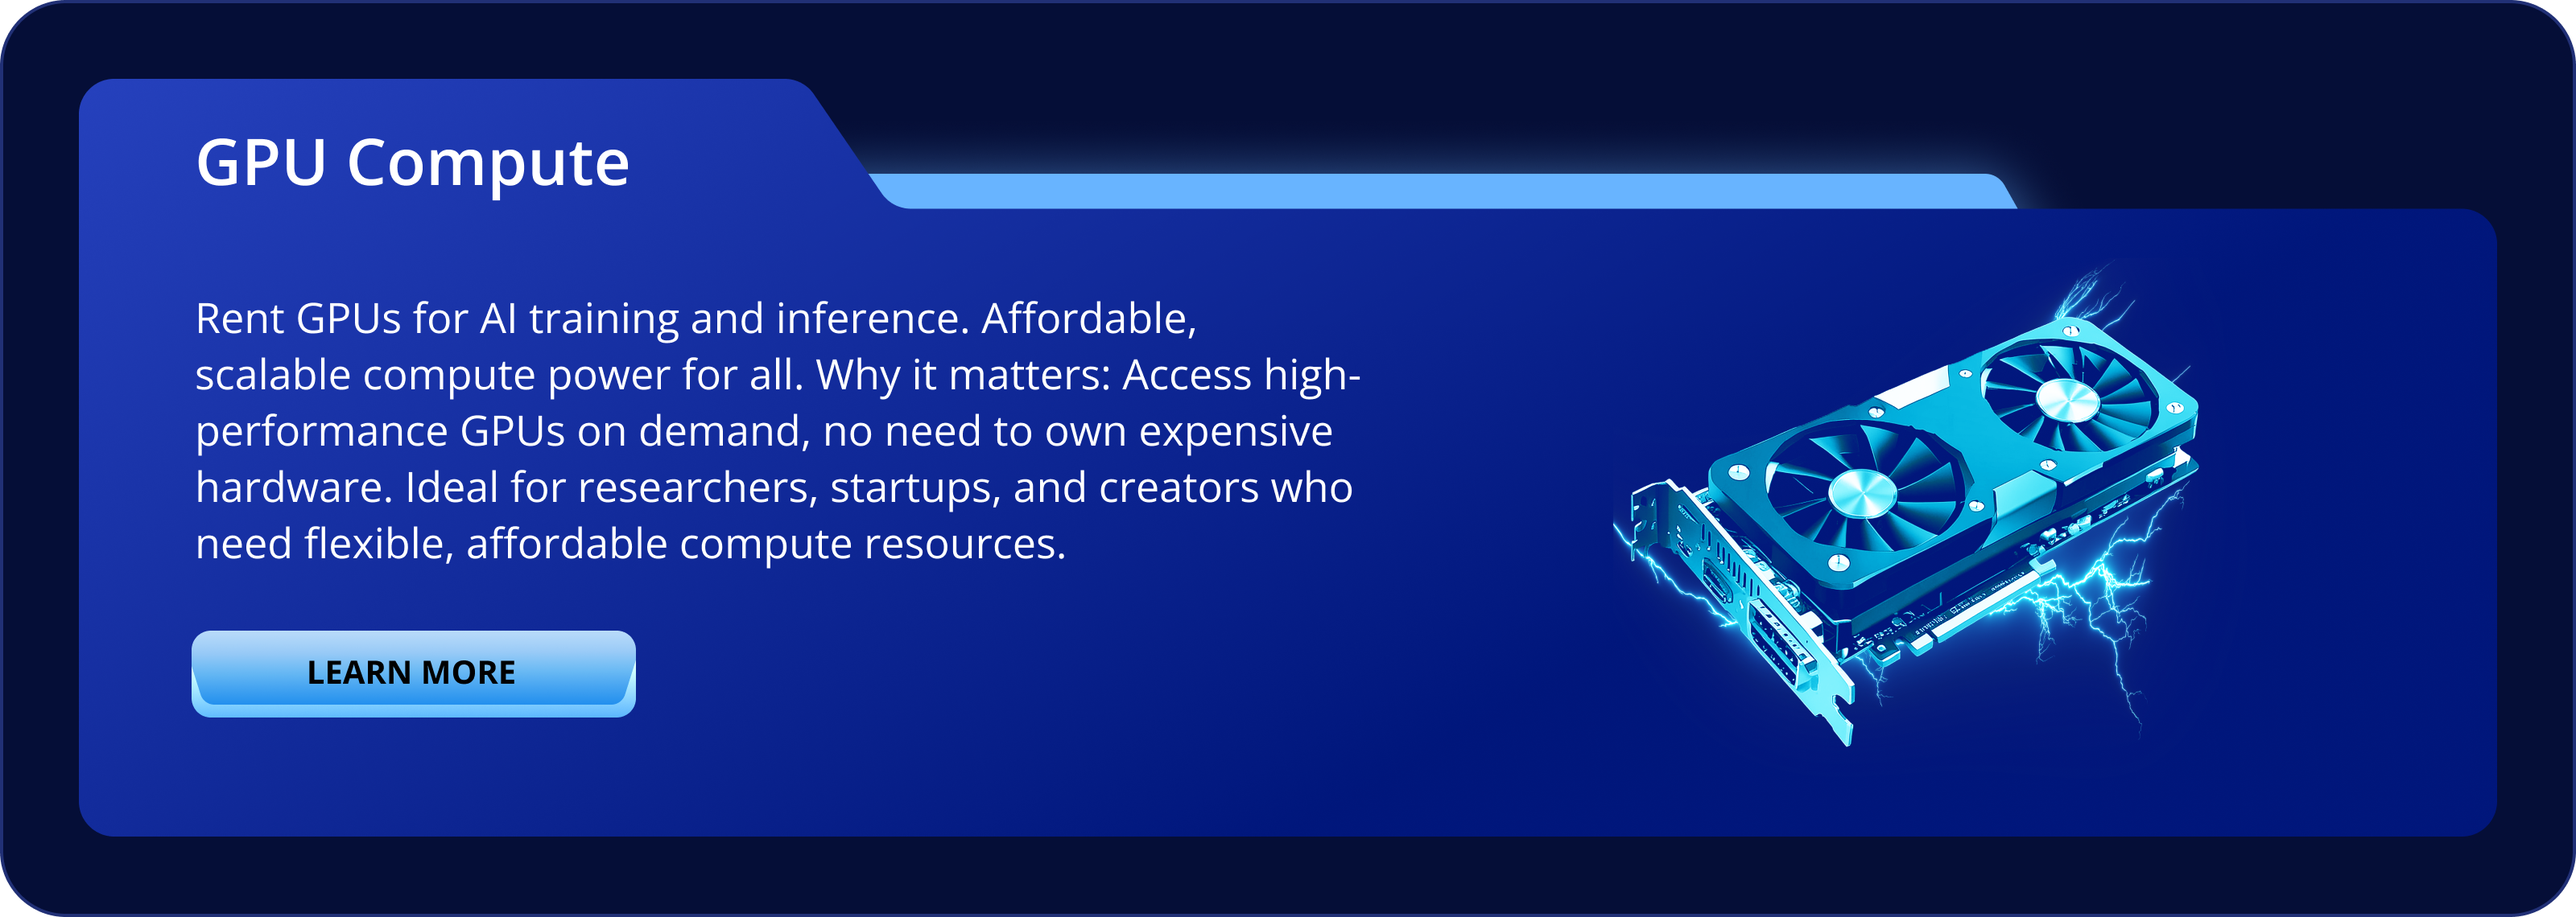
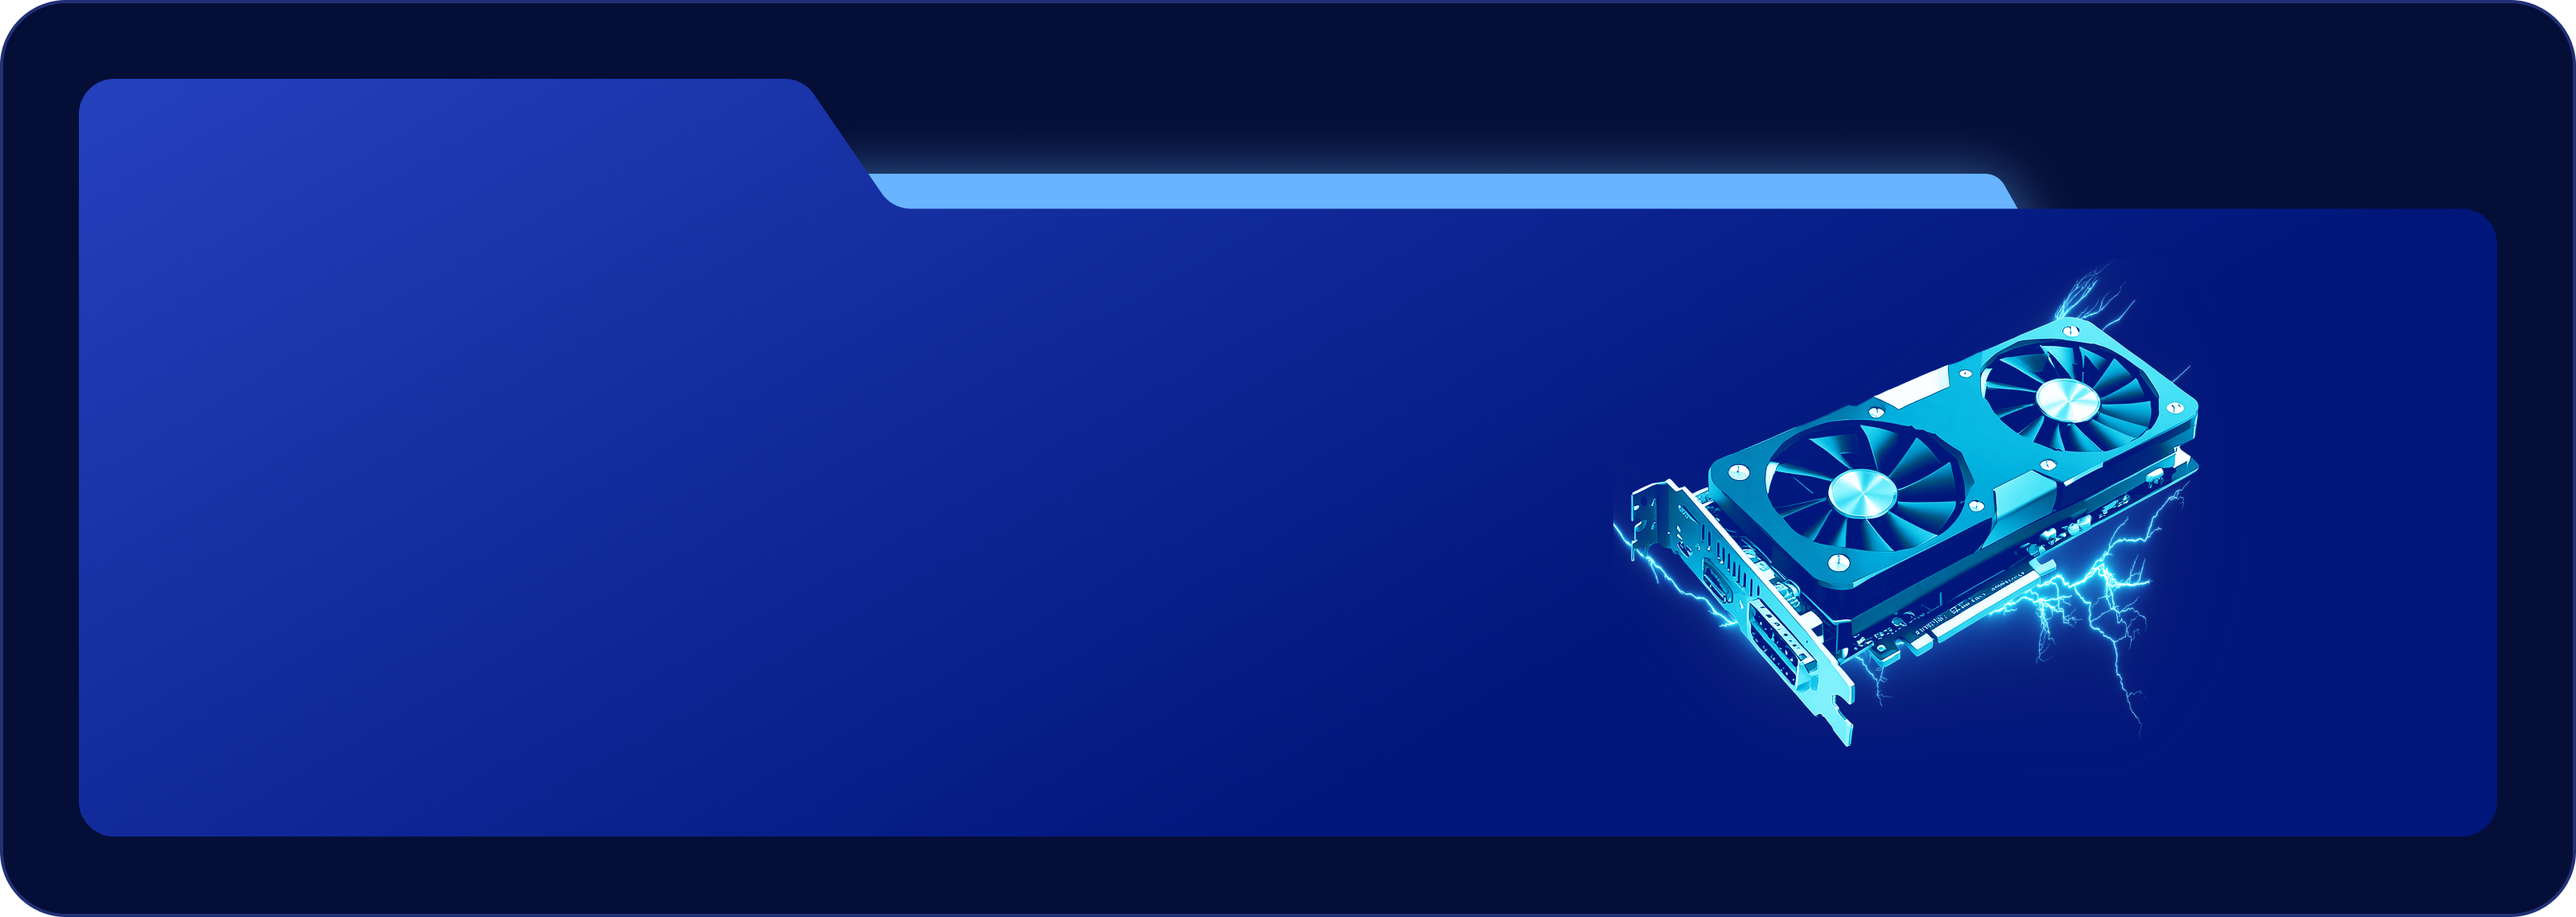
coin, team, tokonomics, Highlights  fix

diff --git a/src/pages/Index.tsx b/src/pages/Index.tsx
@@ -1,17 +1,26 @@
 "use client";
-import { useEffect, useState } from "react";
+import { useEffect, useState, Suspense, lazy } from "react";
 import Hero from "@/components/home/Hero";
-import AIModelsSection from "@/components/common/AIModelsSection";
-import NlovTokenDashboard from "@/components/common/NlovTokenTeamDashboard";
-import WhyNeurolov from "@/components/common/poweredby";
-import ComputePowerSharing from "@/components/ComputePowerSharing";
-import LandingWithMarquee from "@/components/InfiniteSlidingHeader";
 import Header from "@/components/Header";
 import BottomLineFix from "@/components/BottomLineFix";
-import NeurolovFooter from "@/components/common/Footer";
-import LatestUpdates from "@/components/common/LatestUpdates";
-import Team from "@/components/common/Team";
-import Highlight from "@/components/Highlight";
+
+const AIModelsSection = lazy(
+  () => import("@/components/common/AIModelsSection")
+);
+const NlovTokenDashboard = lazy(
+  () => import("@/components/common/NlovTokenTeamDashboard")
+);
+const WhyNeurolov = lazy(() => import("@/components/common/poweredby"));
+const ComputePowerSharing = lazy(
+  () => import("@/components/ComputePowerSharing")
+);
+const LandingWithMarquee = lazy(
+  () => import("@/components/InfiniteSlidingHeader")
+);
+const NeurolovFooter = lazy(() => import("@/components/common/Footer"));
+const LatestUpdates = lazy(() => import("@/components/common/LatestUpdates"));
+const Team = lazy(() => import("@/components/common/Team"));
+const Highlight = lazy(() => import("@/components/Highlight"));
 
 const Index = () => {
   const [showBg2, setShowBg2] = useState(false);
@@ -28,7 +37,9 @@ const Index = () => {
 
   return (
     <div className="bg-[#030924]">
-      <LandingWithMarquee />
+      <Suspense fallback={<div />}>
+        <LandingWithMarquee />
+      </Suspense>
       <Header />
       <BottomLineFix />
       <main>
@@ -62,27 +73,43 @@ const Index = () => {
           <Hero />
         </div>
         <div>
-          <WhyNeurolov />
+          <Suspense fallback={<div />}>
+            <WhyNeurolov />
+          </Suspense>
         </div>
         <div className="mt-20 ">
-          <ComputePowerSharing />
+          <Suspense fallback={<div />}>
+            <ComputePowerSharing />
+          </Suspense>
         </div>
         <div className="mt-20">
-          <Highlight />
+          <Suspense fallback={<div />}>
+            <Highlight />
+          </Suspense>
         </div>
         <div className="mt-20 ">
-          <AIModelsSection />
+          <Suspense fallback={<div />}>
+            <AIModelsSection />
+          </Suspense>
         </div>
         <div className="mt-20 bg-[url('/token/bg.png')] bg-fill">
-          <NlovTokenDashboard />
+          <Suspense fallback={<div />}>
+            <NlovTokenDashboard />
+          </Suspense>
         </div>
         <div className="mt-20 bg-[url('/updates/star-bg.png')] bg-cover bg-center bg-no-repeat">
-          <Team />
-          <LatestUpdates />
+          <Suspense fallback={<div />}>
+            <Team />
+          </Suspense>
+          <Suspense fallback={<div />}>
+            <LatestUpdates />
+          </Suspense>
         </div>
       </main>
       <div className="py-10">
-        <NeurolovFooter />
+        <Suspense fallback={<div />}>
+          <NeurolovFooter />
+        </Suspense>
       </div>
     </div>
   );

diff --git a/src/components/Highlight.tsx b/src/components/Highlight.tsx
@@ -6,17 +6,48 @@ export default function Highlight() {
       <div className="w-full text-center mb-12 lg:mb-16 px-4 z-10">
         <h1 className="text-5xl tracking-tight mb-4 lg:mb-6">
           <span className="text-[#ACD2FF]">
-            {" "}
             Product <span className="font-bold">Highlights</span>
           </span>
         </h1>
       </div>
-
-      {/* Container to stack images vertically and limit width */}
       <div className="w-full max-w-7xl mx-auto flex flex-col gap-6 px-4">
-        <div className="w-full flex justify-center items-center">
+        <div className="w-full flex justify-center items-center relative">
           <img src="/highlight/1.png" alt="" className="w-full" />
+          <div className="absolute inset-0 flex items-center justify-start pl-24">
+            <div className="max-w-lg text-white">
+              <h2 className="text-3xl font-semibold mb-6 text-white">
+                GPU Compute
+              </h2>
+              <p className="text-lg my-10 leading-relaxed opacity-90">
+                Rent GPUs for AI training and inference. Affordable, scalable
+                compute power for all. Why it matters: Access high- performance
+                GPUs on demand, no need to own expensive hardware. Ideal for
+                researchers, startups, and creators who need flexible,
+                affordable compute resources.
+              </p>
+              <button
+                onClick={() => {
+                  window.open("https://swarm.neurolov.ai", "_blank");
+                }}
+                className="relative inline-flex items-center justify-center px-8 py-4 text-base font-semibold text-black transition-all duration-300 hover:shadow-[0_0_20px_rgba(137,189,255,0.8)]"
+                style={{
+                  backgroundImage: "url('/compute/button.png')",
+                  backgroundSize: "cover",
+                  backgroundPosition: "center",
+                  backgroundRepeat: "no-repeat",
+                  minWidth: 200,
+                  minHeight: 44,
+                  borderRadius: 14,
+                }}
+                type="button"
+                aria-label="CONNECT &amp; EARN"
+              >
+                LEARN MORE
+              </button>
+            </div>
+          </div>
         </div>
+
         <div className="w-full flex justify-center items-center">
           <img src="/highlight/2.png" alt="" className="w-full" />
         </div>

diff --git a/src/components/common/Team.tsx b/src/components/common/Team.tsx
@@ -7,34 +7,40 @@ export default function Team() {
         <h1 className="text-5xl font-semibold text-[#ACD2FF]">Meet Our Team</h1>
       </div>
 
-      <div className="relative flex flex-col md:flex-row items-center md:items-start gap-6">
+      <section className="relative  px-6 md:px-12 py-12 overflow-hidden">
         <img
           src="/token/glow.png"
           alt="spotlight"
-          className="absolute inset-0 w-full h-full object-cover z-0 mt-24"
+          className="absolute inset-0 w-full h-full object-cover z-0 pointer-events-none"
         />
-        <div className="w-full md:w-1/2 relative z-10">
-          <img
-            src="/token/team-1.png"
-            alt="Team"
-            className="w-full h-full object-contain"
-          />
+
+        <div className="relative z-10 flex flex-col md:flex-row md:items-start items-center gap-6">
+          <div className="w-full md:w-1/2">
+            <img
+              src="/token/team-1.png"
+              alt="Team"
+              className="w-full h-full object-contain"
+            />
+          </div>
+
+          <div className="w-full md:w-1/2">
+            <img
+              src="/token/team-2.png"
+              alt="Team"
+              className="w-full h-full object-contain"
+            />
+          </div>
+
+          <div className="w-full md:w-1/2">
+            <img
+              src="/token/team-3.png"
+              alt="Team"
+              className="w-full h-full object-contain"
+            />
+          </div>
         </div>
-        <div className="w-full md:w-1/2 relative z-10">
-          <img
-            src="/token/team-2.png"
-            alt="Team"
-            className="w-full h-full object-contain"
-          />
-        </div>
-        <div className="w-full md:w-1/2 relative z-10">
-          <img
-            src="/token/team-3.png"
-            alt="Team"
-            className="w-full h-full object-contain"
-          />
-        </div>
-      </div>
+      </section>
+
       <div className="flex justify-center items-center mt-12">
         <button
           onClick={() => {

diff --git a/src/components/ComputePowerSharing.tsx b/src/components/ComputePowerSharing.tsx
@@ -31,15 +31,12 @@ const ComputePowerSharing: React.FC = () => {
         </div>
 
         <div className="relative w-full max-w-7xl mx-auto z-10 px-4">
-          <div
-            className="pointer-events-none absolute inset-0 flex items-center justify-center"
-            aria-hidden="true"
-          >
-            <div className="absolute left-1/2 top-1/2 -translate-x-1/2 -translate-y-1/2 w-full h-full flex items-center justify-center">
+          <div className="absolute left-1/2 top-1/2 -translate-x-1/2 -translate-y-1/2 w-full h-full flex items-center justify-center">
+            <div className="glowing-line w-full h-auto max-w-6xl">
               <img
                 src="/compute/line.png"
                 alt=""
-                className="w-full h-auto max-w-6xl object-contain"
+                className="w-full h-auto object-contain"
               />
             </div>
           </div>
@@ -109,6 +106,42 @@ const ComputePowerSharing: React.FC = () => {
           </button>
         </div>
       </div>
+
+      <style>{`
+        .glowing-line {
+  position: relative;
+  overflow: hidden;
+}
+
+.glowing-line::before {
+  content: '';
+  position: absolute;
+  top: 0;
+  left: -100%;
+  width: 100%;
+  height: 100%;
+  background: linear-gradient(
+    90deg,
+    transparent 0%,
+    rgba(172, 210, 255, 0.3) 25%,
+    rgba(172, 210, 255, 0.8) 50%,
+    rgba(172, 210, 255, 0.3) 75%,
+    transparent 100%
+  );
+  animation: glowSweep 3s linear infinite;
+  z-index: 1;
+}
+
+@keyframes glowSweep {
+  0% {
+    left: -100%;
+  }
+  100% {
+    left: 100%;
+  }
+}
+
+      `}</style>
     </div>
   );
 };

diff --git a/src/components/common/NlovTokenTeamDashboard.tsx b/src/components/common/NlovTokenTeamDashboard.tsx
@@ -11,8 +11,8 @@ const tokenInfo = [
   { label: "Total supply", value: "500K" },
   { label: "Ticker", value: "$NLOV" },
   { label: "Chain", value: "SOL" },
-  { label: "Current Price", value: "0.03" },
-  { label: "TGE Price", value: "$0.55" },
+  { label: "Current Price", value: "0.02" },
+  { label: "TGE Price", value: "$0.08" },
   { label: "Fully Diluted Price", value: "0.23 $NLOV" },
 ];
 
@@ -208,10 +208,8 @@ const TokenShowcase: React.FC = () => {
                       key={item.label}
                       className="flex justify-between items-center py-1.5 border-b border-white/20 last:border-b-0"
                     >
-                      <span className="text-[#4b5ba1] text-xs">
-                        {item.label}
-                      </span>
-                      <span className="text-[#9AACF9] font-medium text-xs">
+                      <span className="text-white text-xs">{item.label}</span>
+                      <span className="text-white font-medium text-xs">
                         {item.value}
                       </span>
                     </div>

diff --git a/src/components/layout/PageLayout.tsx b/src/components/layout/PageLayout.tsx
@@ -30,7 +30,7 @@ export default function PageLayout({
       <Header />
       <main>
         {/* Page header */}
-        <SectionContainer className="pt-40 pb-16 relative ">
+        <SectionContainer className="pt-48 pb-0 relative ">
           <div className="text-center max-w-3xl mx-auto">
             <h1 className="text-4xl md:text-5xl font-bold mb-6 hero-text-gradient">
               {title}
